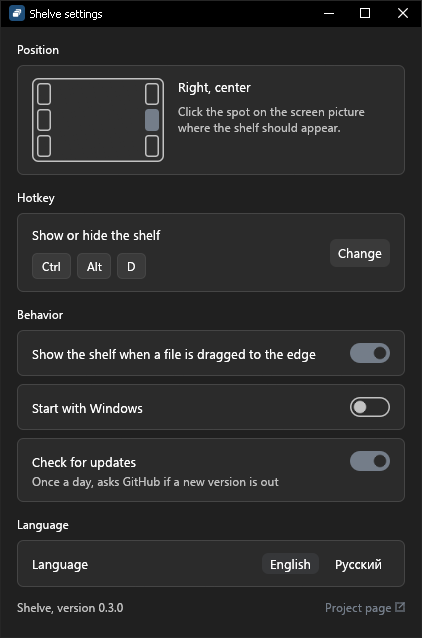
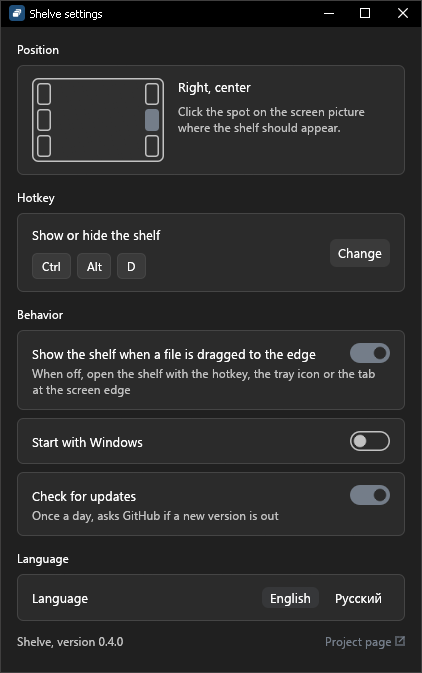
docs: new demo and screenshots for 0.4.0: picked rows, path box, settings hint

diff --git a/README.ru.md b/README.ru.md
@@ -4,7 +4,7 @@
 
 In English: [README.md](README.md)
 
-![Два файла тащат к краю экрана и бросают на полку, потом один переносят в папку, и он уходит с полки; полка прячется, у края остаётся язычок](docs/demo.gif)
+![Три файла тащат к краю экрана и бросают на полку; два из них выделяют Ctrl+щелчком и вместе переносят в папку, они уходят с полки, полка прячется, у края остаётся язычок](docs/demo.gif)
 
 Начните тащить файл, доведите его до края экрана, и оттуда выедет небольшая плашка. Бросьте файл на неё. Потом откройте папку или программу, куда файл нужен, и перетащите его с полки туда.
 
@@ -26,7 +26,7 @@ In English: [README.md](README.md)
 
 ## Как пользоваться
 
-![Полка с четырьмя файлами](docs/shelf.png)
+![Полка с семью файлами: две выделенные строки подсвечены, длинное имя сокращено в середине, а под строкой, на которой задержалась мышь, плашка с полным путём](docs/shelf.png)
 
 - **Положить файл.** Тащите файл или папку к краю экрана (по умолчанию к правому) и бросьте на полку, когда она выедет. `Ctrl+Alt+D` или «Показать/скрыть» в меню значка открывает полку и без перетаскивания. Новые строки встают в конец; несколько файлов, брошенных разом, выстраиваются как в Проводнике: сначала папки, потом по имени («скан_2» раньше «скан_10»), за какой бы файл вы их ни тащили. На длинной полке список сам прокручивается к ним. Слишком длинное имя сокращается в середине, а конец с расширением остаётся на виду: «Договор аренды (п…ный).pdf». Полный путь видно, если задержать мышь на строке: он появляется в плашке сразу под строкой, во всю ширину полки, с уголком-стрелкой к строке; у нижних строк полки плашка встаёт над строкой. Длинный путь переносится на несколько строк и не уходит за край экрана.
 - **Достать файл.** Перетащите строку левой кнопкой мыши в папку или на рабочий стол, и файл переедет туда. Строка уходит с полки, когда Проводник закончит перенос: обычно сразу, а для большого файла на другой диск, когда закончится копирование. Сам Shelve ничего не удаляет.
@@ -58,7 +58,7 @@ In English: [README.md](README.md)
 
 ## Обновления
 
-Примерно через десять секунд после запуска и потом раз в сутки Shelve спрашивает у GitHub, не вышла ли новая версия. Если вышла, наверху окна настроек появляется карточка («Вышла Shelve 0.4.0, у вас 0.3.0»), а кнопка «Скачать» открывает страницу выпуска в браузере. Сама программа ничего не скачивает и не устанавливает: скачайте новый `shelve.exe`, выйдите из Shelve через меню значка у часов и положите новый файл на место старого. Настройки сохранятся.
+Примерно через десять секунд после запуска и потом раз в сутки Shelve спрашивает у GitHub, не вышла ли новая версия. Если вышла, наверху окна настроек появляется карточка («Вышла Shelve 0.5.0, у вас 0.4.0»), а кнопка «Скачать» открывает страницу выпуска в браузере. Сама программа ничего не скачивает и не устанавливает: скачайте новый `shelve.exe`, выйдите из Shelve через меню значка у часов и положите новый файл на место старого. Настройки сохранятся.
 
 Запрос уходит на `api.github.com` и ничего не сообщает ни о вас, ни о ваших файлах. Выключить проверку можно переключателем «Проверять обновления» в группе «Поведение». Версии до 0.3.0 обновления не проверяют, поэтому с 0.2.0 и более старых один раз обновитесь вручную.
 
@@ -79,7 +79,7 @@ In English: [README.md](README.md)
 
 | | |
 |---|---|
-| Размер exe | 5,2 МБ |
+| Размер exe | 5,3 МБ |
 | Память после запуска, полка скрыта | 55 МБ |
 | Память, когда полка показана и на ней несколько файлов | 65–70 МБ |
 | Память, когда полка снова скрыта | 5–8 МБ |

diff --git a/README.md b/README.md
@@ -2,7 +2,7 @@
 
 A file shelf at the edge of the screen, for Windows 10 and 11.
 
-![Two files are dragged to the screen edge and dropped on the shelf, then one is moved out into a folder and leaves the shelf; the shelf hides and a tab stays at the edge](docs/demo.gif)
+![Three files are dragged to the screen edge and dropped on the shelf; two of them are picked with Ctrl+click and moved out into a folder together, they leave the shelf, and the shelf hides behind a tab at the edge](docs/demo.gif)
 
 Start dragging a file, bring it to the edge of the screen, and a small panel slides out. Drop the file there. Then open the folder or the program it should go to and drag it off the shelf.
 
@@ -20,7 +20,7 @@ Settings are kept in `%APPDATA%\shelve\config.json`. To remove Shelve, turn off 
 
 ## Use
 
-![The shelf with four items](docs/shelf.png)
+![The shelf with seven items: two picked rows are tinted, a long name is shortened in the middle, and the full path shows in a box under the row the mouse rests on](docs/shelf.png)
 
 - **Put a file on it.** Drag a file or a folder to the screen edge (the right one by default) and drop it on the shelf when it slides out. `Ctrl+Alt+D` or "Show/hide" in the tray menu opens the shelf without dragging anything. New rows go to the end; several files dropped at once line up as in Explorer, folders first, then by name ("scan_2" before "scan_10"), whichever one you grabbed. On a long shelf the list scrolls down to them. A name too long for its row is shortened in the middle, so its end with the extension stays in sight: "Lease agreement (s…ned).pdf". Rest the mouse on the row to see the full path in a box just under the row, as wide as the shelf, with a small arrow pointing up at the row; at the bottom of the shelf the box stands over the row instead. A long path wraps onto more lines so it stays on screen.
 - **Take a file off it.** Drag a row into a folder or onto the desktop with the left mouse button and the file moves there. Its row leaves the shelf once Explorer has finished moving it: usually at once, for a big file going to another drive when the copying is done. Shelve itself never deletes anything.
@@ -52,7 +52,7 @@ Changes apply at once.
 
 ## Updates
 
-About ten seconds after start and then once a day, Shelve asks GitHub whether a newer release is out. If one is, a card at the top of the settings window says so ("Shelve 0.4.0 is out, you have 0.3.0") and its "Download" button opens the release page in the browser. Nothing is downloaded or installed by itself: download the new `shelve.exe`, exit Shelve from the tray menu and put the new file in place of the old one. Settings stay.
+About ten seconds after start and then once a day, Shelve asks GitHub whether a newer release is out. If one is, a card at the top of the settings window says so ("Shelve 0.5.0 is out, you have 0.4.0") and its "Download" button opens the release page in the browser. Nothing is downloaded or installed by itself: download the new `shelve.exe`, exit Shelve from the tray menu and put the new file in place of the old one. Settings stay.
 
 The request goes to `api.github.com` and sends nothing about you or your files. To turn it off, switch off "Check for updates" under Behavior. Versions before 0.3.0 do not check, so from 0.2.0 or older update by hand once.
 
@@ -73,7 +73,7 @@ Measured on Windows 10 22H2 with an NVIDIA card at 100% scale, release build.
 
 | | |
 |---|---|
-| Size of the exe | 5.2 MB |
+| Size of the exe | 5.3 MB |
 | Memory after start, shelf hidden | 55 MB |
 | Memory with the shelf shown and a few files on it | 65 to 70 MB |
 | Memory with the shelf hidden again | 5 to 8 MB |
